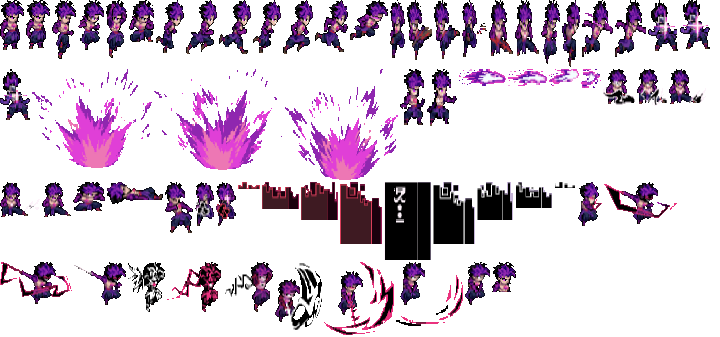
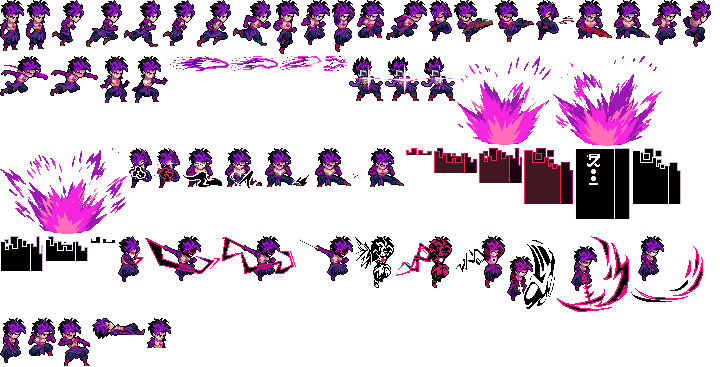
FelipeDzn: sheet limpo enviado pelo usuario (todas as animacoes na aparencia original)
Claude-Session: https://claude.ai/code/session_013gR3HaFkwpdViyVepxCnDX

diff --git a/js/felipedzn-data.js b/js/felipedzn-data.js
@@ -1,3 +1,3 @@
 /* Atlas do FelipeDzn (refeito a partir das referências de cada animação enviadas: parado, pulo, corrida, dash, socos, Ki, aura, poderes, combo 2, defesa, morte, dano, habilidade única e espada).
    Poder pequeno = onda rosa; PODER GRANDE = HADOU 99 (rajada de 3 ondas); HABILIDADE ÚNICA = ESPADA (invocação com pilares, golpe em investida e giro em área). Stats 0–10. */
-(window.SL ||= {}).FELIPEDZN = {"id":"felipedzn","name":"FelipeDzn","sheet":"assets/characters/felipedzn/sheet.png","sheetW":720,"sheetH":337,"portrait":{"x":492,"y":262,"w":24,"h":30},"frames":[{"x":0,"y":0,"w":24,"h":50,"ax":12,"ay":50},{"x":26,"y":0,"w":24,"h":49,"ax":12,"ay":49},{"x":52,"y":0,"w":24,"h":59,"ax":12,"ay":59},{"x":78,"y":0,"w":26,"h":50,"ax":14,"ay":50},{"x":106,"y":0,"w":21,"h":58,"ax":10,"ay":58},{"x":129,"y":0,"w":25,"h":42,"ax":13,"ay":42},{"x":156,"y":0,"w":28,"h":53,"ax":17,"ay":53},{"x":186,"y":0,"w":31,"h":54,"ax":19,"ay":54},{"x":219,"y":0,"w":32,"h":54,"ax":20,"ay":54},{"x":253,"y":0,"w":28,"h":53,"ax":17,"ay":53},{"x":283,"y":0,"w":30,"h":54,"ax":18,"ay":54},{"x":315,"y":0,"w":33,"h":52,"ax":21,"ay":52},{"x":350,"y":0,"w":38,"h":40,"ax":23,"ay":40},{"x":390,"y":0,"w":15,"h":58,"ax":7,"ay":58},{"x":407,"y":0,"w":25,"h":60,"ax":9,"ay":60},{"x":434,"y":0,"w":26,"h":59,"ax":9,"ay":59},{"x":462,"y":0,"w":25,"h":57,"ax":8,"ay":57},{"x":489,"y":0,"w":24,"h":56,"ax":10,"ay":56},{"x":515,"y":0,"w":24,"h":56,"ax":10,"ay":56},{"x":541,"y":0,"w":19,"h":64,"ax":10,"ay":64},{"x":562,"y":0,"w":18,"h":67,"ax":10,"ay":67},{"x":582,"y":0,"w":31,"h":57,"ax":17,"ay":57},{"x":615,"y":0,"w":31,"h":57,"ax":17,"ay":57},{"x":648,"y":0,"w":30,"h":51,"ax":12,"ay":51,"hand":{"x":25,"y":25}},{"x":680,"y":0,"w":30,"h":49,"ax":12,"ay":49,"hand":{"x":25,"y":24}},{"x":0,"y":69,"w":30,"h":51,"ax":12,"ay":51,"hand":{"x":25,"y":25}},{"x":32,"y":69,"w":120,"h":99,"ax":60,"ay":99},{"x":154,"y":69,"w":118,"h":101,"ax":59,"ay":101},{"x":274,"y":69,"w":124,"h":111,"ax":62,"ay":111},{"x":400,"y":69,"w":25,"h":56,"ax":13,"ay":56,"hand":{"x":24,"y":28}},{"x":427,"y":69,"w":30,"h":57,"ax":14,"ay":57,"hand":{"x":29,"y":30}},{"x":459,"y":69,"w":47,"h":17,"ax":23,"ay":17},{"x":508,"y":69,"w":39,"h":17,"ax":19,"ay":17},{"x":549,"y":69,"w":30,"h":17,"ax":15,"ay":17},{"x":581,"y":69,"w":20,"h":19,"ax":10,"ay":19},{"x":603,"y":69,"w":32,"h":36,"ax":14,"ay":36},{"x":637,"y":69,"w":30,"h":37,"ax":12,"ay":37},{"x":669,"y":69,"w":37,"h":35,"ax":13,"ay":35},{"x":0,"y":182,"w":40,"h":35,"ax":14,"ay":35},{"x":42,"y":182,"w":29,"h":35,"ax":12,"ay":35},{"x":73,"y":182,"w":32,"h":29,"ax":17,"ay":29},{"x":107,"y":182,"w":56,"h":22,"ax":18,"ay":22},{"x":165,"y":182,"w":28,"h":51,"ax":11,"ay":51},{"x":195,"y":182,"w":19,"h":44,"ax":9,"ay":44},{"x":216,"y":182,"w":20,"h":44,"ax":9,"ay":44},{"x":238,"y":182,"w":22,"h":7,"ax":11,"ay":7},{"x":262,"y":182,"w":37,"h":27,"ax":18,"ay":27},{"x":301,"y":182,"w":37,"h":38,"ax":18,"ay":38},{"x":340,"y":182,"w":42,"h":62,"ax":21,"ay":62},{"x":384,"y":182,"w":47,"h":78,"ax":23,"ay":78},{"x":433,"y":182,"w":42,"h":62,"ax":21,"ay":62},{"x":477,"y":182,"w":36,"h":38,"ax":18,"ay":38},{"x":515,"y":182,"w":37,"h":26,"ax":18,"ay":26},{"x":554,"y":182,"w":22,"h":6,"ax":11,"ay":6},{"x":578,"y":182,"w":24,"h":44,"ax":11,"ay":44},{"x":604,"y":182,"w":73,"h":42,"ax":33,"ay":42},{"x":0,"y":262,"w":72,"h":42,"ax":33,"ay":42},{"x":74,"y":262,"w":52,"h":43,"ax":32,"ay":43},{"x":128,"y":262,"w":37,"h":50,"ax":20,"ay":50},{"x":167,"y":262,"w":54,"h":50,"ax":36,"ay":50},{"x":223,"y":262,"w":50,"h":50,"ax":33,"ay":50},{"x":275,"y":262,"w":47,"h":74,"ax":26,"ay":74},{"x":324,"y":262,"w":70,"h":73,"ax":34,"ay":73},{"x":396,"y":262,"w":67,"h":64,"ax":17,"ay":43},{"x":465,"y":262,"w":25,"h":43,"ax":13,"ay":43}],"names":{},"anims":{"idle":{"f":[0,1],"fps":2.5,"loop":true},"run":{"f":[6,7,8,9,10,11],"fps":14,"loop":true},"jump":{"f":[4],"fps":1},"fall":{"f":[2],"fps":1},"fly":{"f":[3],"fps":1},"flyMove":{"f":[12],"fps":1},"shield":{"f":[40],"fps":1},"attack":{"f":[14,15],"fps":8},"charge":{"f":[23,24,25,24],"fps":10,"loop":true},"energy":{"f":[29,30],"fps":8},"hurt":{"f":[42],"fps":1},"hurtH":{"f":[42,42],"fps":6},"guardhit":{"f":[40],"fps":1},"ko":{"f":[41],"fps":1}},"attacks":[{"f":[13,14,15,16],"fps":14.3,"dur":0.28,"from_":0.07,"to":0.2,"reach":30,"dmg":12,"kb":150},{"f":[35,36,37,38,39],"fps":16.7,"dur":0.3,"from_":0.08,"to":0.24,"reach":32,"dmg":14,"kb":190},{"f":[19,20,21,22],"fps":11.8,"dur":0.34,"from_":0.1,"to":0.28,"reach":40,"dmg":16,"kb":240}],"cast":{"cost":30,"cd":0.45,"dmg":22,"speed":560,"range":520,"kb":220,"proj":"wave","size":0.8,"seqLento":[{"id":"charge","dur":0.6,"f":[23,24,25],"fps":9,"loop":true},{"id":"charge2","dur":0.45,"f":[24,25,23],"fps":11,"loop":true},{"id":"prep","dur":0.27,"f":[29],"fps":1},{"id":"hold","dur":0.35,"f":[30],"fps":1},{"id":"fire","dur":0.6,"f":[30],"fps":1,"fire":true}],"seq":[{"id":"fire","dur":0.22,"f":[30],"fps":1,"fire":true}]},"proj":{"wave":{"frames":[31,32,33,34],"fps":16,"impact":{"frames":[26,27,28],"scale":0.35,"dur":0.3}}},"big":{"name":"HADOU 99","cost":55,"cd":7,"volley":3,"gap":0.13,"cfg":{"size":1.6,"dmg":27,"speed":640,"range":640,"kb":300}},"dash":{"name":"ESPADA","cost":40,"cd":8,"speed":560,"dmg":34,"kb":300,"aoeDmg":26,"aoeKb":380,"seq":[{"id":"summon","dur":0.55,"f":[43,44],"fps":11,"fx":[45,46,47,48,49,50,51,52,53],"fxFps":16},{"id":"wind","dur":0.1,"f":[54],"fps":1},{"id":"slash","dur":0.26,"f":[55,56,57],"fps":12,"move":true},{"id":"spin","dur":0.36,"f":[58,59,60,61,62,63],"fps":16,"aoe":64},{"id":"rec","dur":0.2,"f":[64],"fps":1}]},"stats":{"power":8.0,"defense":6.5,"energy":7.2,"speed":7.8,"k":8.4}};
+(window.SL ||= {}).FELIPEDZN = {"id":"felipedzn","name":"FelipeDzn","sheet":"assets/characters/felipedzn/sheet.png","sheetW":720,"sheetH":367,"portrait":{"x":147,"y":318,"w":24,"h":30},"frames":[{"x":0,"y":0,"w":24,"h":51,"ax":12,"ay":51},{"x":26,"y":0,"w":24,"h":50,"ax":12,"ay":50},{"x":52,"y":0,"w":32,"h":46,"ax":19,"ay":46},{"x":86,"y":0,"w":36,"h":47,"ax":22,"ay":47},{"x":124,"y":0,"w":37,"h":47,"ax":23,"ay":47},{"x":163,"y":0,"w":32,"h":46,"ax":19,"ay":46},{"x":197,"y":0,"w":34,"h":47,"ax":21,"ay":47},{"x":233,"y":0,"w":38,"h":46,"ax":24,"ay":46},{"x":273,"y":0,"w":26,"h":54,"ax":13,"ay":54},{"x":301,"y":0,"w":29,"h":45,"ax":16,"ay":45},{"x":332,"y":0,"w":23,"h":52,"ax":11,"ay":52},{"x":357,"y":0,"w":27,"h":38,"ax":14,"ay":38},{"x":386,"y":0,"w":41,"h":40,"ax":26,"ay":40},{"x":429,"y":0,"w":23,"h":41,"ax":10,"ay":41},{"x":454,"y":0,"w":39,"h":42,"ax":14,"ay":42},{"x":495,"y":0,"w":39,"h":42,"ax":14,"ay":42},{"x":536,"y":0,"w":38,"h":40,"ax":10,"ay":40},{"x":576,"y":0,"w":36,"h":39,"ax":15,"ay":39},{"x":614,"y":0,"w":36,"h":39,"ax":15,"ay":39},{"x":652,"y":0,"w":29,"h":45,"ax":16,"ay":45},{"x":683,"y":0,"w":28,"h":47,"ax":16,"ay":47},{"x":0,"y":56,"w":48,"h":40,"ax":26,"ay":40},{"x":50,"y":56,"w":48,"h":40,"ax":27,"ay":40},{"x":100,"y":56,"w":30,"h":47,"ax":15,"ay":47,"hand":{"x":29,"y":21}},{"x":132,"y":56,"w":36,"h":47,"ax":17,"ay":47,"hand":{"x":35,"y":24}},{"x":170,"y":56,"w":59,"h":15,"ax":29,"ay":15},{"x":231,"y":56,"w":47,"h":15,"ax":23,"ay":15},{"x":280,"y":56,"w":41,"h":14,"ax":20,"ay":14},{"x":323,"y":56,"w":24,"h":15,"ax":12,"ay":15},{"x":349,"y":56,"w":34,"h":45,"ax":14,"ay":45,"hand":{"x":29,"y":22}},{"x":385,"y":56,"w":34,"h":45,"ax":14,"ay":45,"hand":{"x":29,"y":22}},{"x":421,"y":56,"w":34,"h":45,"ax":14,"ay":45,"hand":{"x":29,"y":22}},{"x":457,"y":56,"w":94,"h":89,"ax":47,"ay":89},{"x":553,"y":56,"w":109,"h":90,"ax":54,"ay":90},{"x":0,"y":148,"w":127,"h":86,"ax":63,"ay":86},{"x":129,"y":148,"w":23,"h":40,"ax":10,"ay":40},{"x":154,"y":148,"w":26,"h":40,"ax":13,"ay":40},{"x":182,"y":148,"w":41,"h":40,"ax":19,"ay":40},{"x":225,"y":148,"w":38,"h":42,"ax":15,"ay":42},{"x":265,"y":148,"w":48,"h":39,"ax":17,"ay":39},{"x":315,"y":148,"w":51,"h":39,"ax":18,"ay":39},{"x":368,"y":148,"w":36,"h":39,"ax":15,"ay":39},{"x":406,"y":148,"w":26,"h":7,"ax":13,"ay":7},{"x":434,"y":148,"w":43,"h":25,"ax":21,"ay":25},{"x":479,"y":148,"w":43,"h":35,"ax":21,"ay":35},{"x":524,"y":148,"w":49,"h":56,"ax":24,"ay":56},{"x":575,"y":148,"w":55,"h":71,"ax":27,"ay":71},{"x":632,"y":148,"w":49,"h":56,"ax":24,"ay":56},{"x":0,"y":236,"w":43,"h":35,"ax":21,"ay":35},{"x":45,"y":236,"w":43,"h":25,"ax":21,"ay":25},{"x":90,"y":236,"w":26,"h":7,"ax":13,"ay":7},{"x":118,"y":236,"w":25,"h":46,"ax":11,"ay":46},{"x":145,"y":236,"w":75,"h":45,"ax":34,"ay":45},{"x":222,"y":236,"w":74,"h":45,"ax":34,"ay":45},{"x":298,"y":236,"w":55,"h":45,"ax":33,"ay":45},{"x":355,"y":236,"w":39,"h":52,"ax":21,"ay":52},{"x":396,"y":236,"w":56,"h":52,"ax":36,"ay":52},{"x":454,"y":236,"w":51,"h":52,"ax":33,"ay":52},{"x":507,"y":236,"w":48,"h":80,"ax":26,"ay":80},{"x":557,"y":236,"w":72,"h":76,"ax":37,"ay":76},{"x":631,"y":236,"w":72,"h":66,"ax":20,"ay":45},{"x":0,"y":318,"w":26,"h":45,"ax":13,"ay":45},{"x":28,"y":318,"w":28,"h":38,"ax":14,"ay":38},{"x":58,"y":318,"w":32,"h":48,"ax":12,"ay":48},{"x":92,"y":318,"w":53,"h":21,"ax":17,"ay":21}],"names":{},"anims":{"idle":{"f":[0,1],"fps":2.5,"loop":true},"run":{"f":[2,3,4,5,6,7],"fps":14,"loop":true},"jump":{"f":[10],"fps":1},"fall":{"f":[8],"fps":1},"fly":{"f":[9],"fps":1},"flyMove":{"f":[12],"fps":1},"shield":{"f":[62],"fps":1},"attack":{"f":[14,15],"fps":8},"charge":{"f":[29,30,31,30],"fps":10,"loop":true},"energy":{"f":[23,24],"fps":8},"hurt":{"f":[63],"fps":1},"hurtH":{"f":[63,63],"fps":6},"guardhit":{"f":[62],"fps":1},"ko":{"f":[64],"fps":1}},"attacks":[{"f":[13,14,15,16],"fps":14.3,"dur":0.28,"from_":0.07,"to":0.2,"reach":30,"dmg":12,"kb":150},{"f":[37,38,39,40,41],"fps":16.7,"dur":0.3,"from_":0.08,"to":0.24,"reach":32,"dmg":14,"kb":190},{"f":[19,20,21,22],"fps":11.8,"dur":0.34,"from_":0.1,"to":0.28,"reach":40,"dmg":16,"kb":240}],"cast":{"cost":30,"cd":0.45,"dmg":22,"speed":560,"range":520,"kb":220,"proj":"wave","size":0.8,"seqLento":[{"id":"charge","dur":0.6,"f":[29,30,31],"fps":9,"loop":true},{"id":"charge2","dur":0.45,"f":[30,31,29],"fps":11,"loop":true},{"id":"prep","dur":0.27,"f":[23],"fps":1},{"id":"hold","dur":0.35,"f":[24],"fps":1},{"id":"fire","dur":0.6,"f":[24],"fps":1,"fire":true}],"seq":[{"id":"fire","dur":0.22,"f":[24],"fps":1,"fire":true}]},"proj":{"wave":{"frames":[25,26,27,28],"fps":16,"impact":{"frames":[32,33,34],"scale":0.35,"dur":0.3}}},"big":{"name":"HADOU 99","cost":55,"cd":7,"volley":3,"gap":0.13,"cfg":{"size":1.6,"dmg":27,"speed":640,"range":640,"kb":300}},"dash":{"name":"ESPADA","cost":40,"cd":8,"speed":560,"dmg":34,"kb":300,"aoeDmg":26,"aoeKb":380,"seq":[{"id":"summon","dur":0.55,"f":[35,36],"fps":11,"fx":[42,43,44,45,46,47,48,49,50],"fxFps":16},{"id":"wind","dur":0.1,"f":[51],"fps":1},{"id":"slash","dur":0.26,"f":[52,53,54],"fps":12,"move":true},{"id":"spin","dur":0.36,"f":[55,56,57,58,59,60],"fps":16,"aoe":64},{"id":"rec","dur":0.2,"f":[61],"fps":1}]},"stats":{"power":8.0,"defense":6.5,"energy":7.2,"speed":7.8,"k":8.4}};
